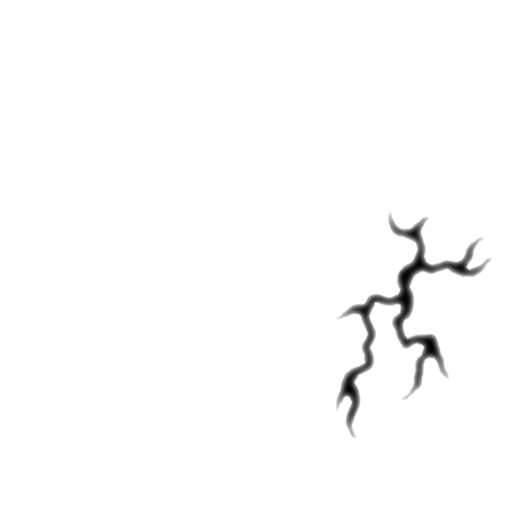
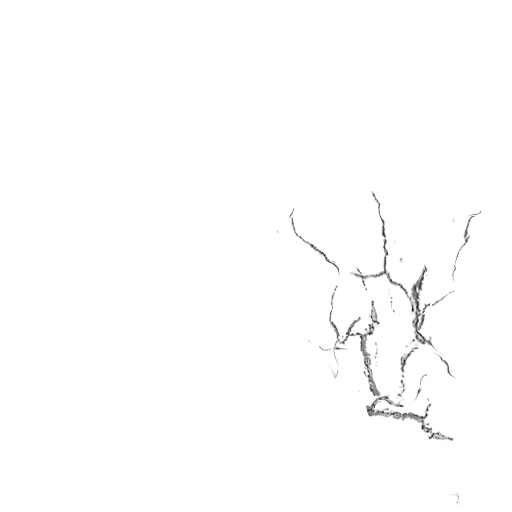
update

diff --git a/js/threedee.js b/js/threedee.js
@@ -1,3 +1,4 @@
+var timer = 0;
 var imagePath = '../images/';
 var imageMax = 100;
 var tdScreenWidth = 800;
@@ -106,7 +107,8 @@ var tdMaterial = {
         shadow: false,
         transparent: true,
         opacity: 0.5,
-        blend: THREE.AdditiveBlending
+        blend: THREE.AdditiveBlending,
+        animate: 'random,10'
     },
     'wall-switch': {
         image: 'wall-switch',
@@ -144,6 +146,7 @@ document.body.appendChild(stats.domElement);
 
 function startEngine() {
     document.getElementById('view').appendChild(renderer.domElement);
+    tdDrawAll();
     animate();
 }
 function animate() {
@@ -152,6 +155,21 @@ function animate() {
     stats.update();
 }
 function render() {
+    for (var ob in tdMaterial) {
+        if(typeof tdMaterial[ob].animate !== 'undefined' && tdMaterial[ob].animate.split(',')[0] === 'random') {
+            var at = parseInt(tdMaterial[ob].animate.split(',')[1]);
+            if(timer % (60 / at) === 0) {
+                var tex = ob;
+                if(typeof tdTexture[tex] !== "undefined") {
+                    for(var i = 0; i < tdTexture[tex].length; i++) {
+                        tdTexture[tex][i].offset.x = Math.random();
+                        tdTexture[tex][i].offset.y = Math.random();
+                    }
+                }
+            }
+        }
+    }
+    timer++;
     $('#debug').html('Camera: X ' + camera.position.x.toFixed(2) + ', Y ' + camera.position.y.toFixed(2) + ', Z ' + camera.position.z.toFixed(2) + ', RX ' + camera.rotation.x.toFixed(2) + ', RY ' + camera.rotation.y.toFixed(2) + ', RZ ' + camera.rotation.z.toFixed(2) + '<br>');
     $('#debug').append('Light: X ' + light.position.x.toFixed(2) + ', Y ' + light.position.y.toFixed(2) + ', Z ' + light.position.z.toFixed(2) + ', RX ' + light.rotation.x.toFixed(2) + ', RY ' + light.rotation.y.toFixed(2) + ', RZ ' + light.rotation.z.toFixed(2));
     TWEEN.update();
@@ -162,25 +180,26 @@ function tdCreateMaterials() {
     var img = null;
     for (var ob in tdMaterial) {
         var i = 0;
+        var tex = ob;
         tdMaterial[ob].material = [];
         if(typeof tdMaterial[ob].image !== "undefined" && tdMaterial[ob].image !== '') {
-            if(typeof tdTexture[ob] === "undefined") {
-                tdTexture[ob] = [];
+            if(typeof tdTexture[tex] === "undefined") {
+                tdTexture[tex] = [];
             }
             while(true) {
-                if(typeof tdTexture[ob][i] === "undefined") {
+                if(typeof tdTexture[tex][i] === "undefined") {
                     img = tdMaterial[ob].image + '-' + i;
                     if(fileExist(imagePath + img + '.jpg')) {
                         aryImageLoader.push({Name: img, Value: false});
-                        tdTexture[ob][i] = new THREE.ImageUtils.loadTexture(imagePath + img + '.jpg', {}, function(img) {checkImageLoading(img)});
+                        tdTexture[tex][i] = new THREE.ImageUtils.loadTexture(imagePath + img + '.jpg', {}, function(img) {checkImageLoading(img)});
                     } else if(fileExist(imagePath + img + '.png')) {
                         aryImageLoader.push({Name: img, Value: false});
-                        tdTexture[ob][i] = new THREE.ImageUtils.loadTexture(imagePath + img + '.png', {}, function(img) {checkImageLoading(img)});
+                        tdTexture[tex][i] = new THREE.ImageUtils.loadTexture(imagePath + img + '.png', {}, function(img) {checkImageLoading(img)});
                     } else {
                         break;
                     }
                     if(typeof tdMaterial[ob].scale !== "undefined") {
-                        tdTexture[ob][i].repeat.set(tdMaterial[ob].scale.x, tdMaterial[ob].scale.y);
+                        tdTexture[tex][i].repeat.set(tdMaterial[ob].scale.x, tdMaterial[ob].scale.y);
                     }
                 }
                 var trans = false;
@@ -208,7 +227,7 @@ function tdCreateMaterials() {
                 }
                 var bump = null;
                 if(norm === null && typeof tdMaterial[ob].bump !== "undefined" && tdMaterial[ob].bump) {
-                    bump = tdTexture[ob][i];
+                    bump = tdTexture[tex][i];
                     if(typeof tdTexture['bump-' + tdMaterial[ob].image] === 'undefined') {
                         tdTexture['bump-' + tdMaterial[ob].image] = [];
                     }
@@ -259,7 +278,7 @@ function tdCreateMaterials() {
                     blend = tdMaterial[ob].blending;
                 }
                 var parameters = {
-                    map: tdTexture[ob][i],
+                    map: tdTexture[tex][i],
                     bumpMap: bump,
                     bumpScale: 0.04,
                     normalMap: norm,
@@ -272,8 +291,8 @@ function tdCreateMaterials() {
                     side: THREE.FrontSide,
                     envMap: refl
                 };
-                tdTexture[ob][i].wrapT = tdTexture[ob][i].wrapS = THREE.RepeatWrapping;
-                tdTexture[ob][i].anisotropy = 16;
+                tdTexture[tex][i].wrapT = tdTexture[tex][i].wrapS = THREE.RepeatWrapping;
+                tdTexture[tex][i].anisotropy = 16;
                 tdMaterial[ob].material[i] = new THREE.MeshPhongMaterial(parameters);
                 i++;
             }
@@ -498,20 +517,20 @@ function drawObject(type, msg, f, x, y, x1, y1, z1, x2, y2, z2, d, metatype, mat
             ms1 = drawObject(type, ms, f, x, y, x1, y1, z1, x2, y2, z2, 0, 'box4', mat, rnd, 129.22);
             if(rand(Math.floor(f / Math.ceil(rnd / 10)), Math.floor(x / rnd), Math.floor(y / rnd), 391.87, 4) === 0) {
                 //ms1 = drawObject('wall-rim-1', ms, f, x, y, x1, y1, z1, x2, y2, z2, 0, 'wall-rim-1', mat, rnd, 129.22);
-                ms1 = drawObject(type, ms, f, x, y, x1 - 0.05, y1 - 0.05, z1, 0.11, 0.11, z2, 0, 'cylinder', 'wall-wood-x05', rnd, 444.01);
-                ms1 = drawObject(type, ms, f, x, y, x1 - 0.05, y1 + 0.95, z1, 0.1, 0.1, z2, 0, 'cylinder', 'wall-wood-x05', rnd, 444.01);
-                ms1 = drawObject(type, ms, f, x, y, x1 + 0.95, y1 - 0.05, z1, 0.09, 0.09, z2, 0, 'cylinder', 'wall-wood-x05', rnd, 444.01);
-                ms1 = drawObject(type, ms, f, x, y, x1 + 0.95, y1 + 0.95, z1, 0.08, 0.08, z2, 0, 'cylinder', 'wall-wood-x05', rnd, 444.01);
+                ms1 = drawObject(type, ms, f, x, y, x1 - 0.05, y1 - 0.05, z1, 0.101, 0.101, z2, 0, 'cylinder', 'wall-wood-x05', rnd, 444.01);
+                ms1 = drawObject(type, ms, f, x, y, x1 - 0.05, y1 + 0.95, z1, 0.100, 0.100, z2, 0, 'cylinder', 'wall-wood-x05', rnd, 444.01);
+                ms1 = drawObject(type, ms, f, x, y, x1 + 0.95, y1 - 0.05, z1, 0.099, 0.099, z2, 0, 'cylinder', 'wall-wood-x05', rnd, 444.01);
+                ms1 = drawObject(type, ms, f, x, y, x1 + 0.95, y1 + 0.95, z1, 0.098, 0.098, z2, 0, 'cylinder', 'wall-wood-x05', rnd, 444.01);
             } else if(rand(Math.floor(f / Math.ceil(rnd / 10)), Math.floor(x / rnd), Math.floor(y / rnd), 391.87, 4) === 1) {
                 //ms1 = drawObject('wall-rim-2', ms, f, x, y, x1, y1, z1, x2, y2, z2, 0, 'wall-rim-2', mat, rnd, 129.22);
-                ms1 = drawObject(type, ms, f, x, y, x1 + 0.45, y1 - 0.05, z1 + 0.25, 0.11, 0.11, z2 * 1.5, 0, 'cylinder-rz', 'wall-wood-x05', rnd, 444.01);
+                ms1 = drawObject(type, ms, f, x, y, x1 + 0.45, y1 - 0.05, z1 + 0.25, 0.1, 0.1, z2 * 1.5, 0, 'cylinder-rz', 'wall-wood-x05', rnd, 444.01);
                 ms1 = drawObject(type, ms, f, x, y, x1 + 0.95, y1 + 0.45, z1 + 0.25, 0.1, 0.1, z2 * 1.5, 0, 'cylinder-rx', 'wall-wood-x05', rnd, 444.01);
-                ms1 = drawObject(type, ms, f, x, y, x1 + 0.45, y1 + 0.95, z1 + 0.25, 0.09, 0.09, z2 * 1.5, 0, 'cylinder-rz', 'wall-wood-x05', rnd, 444.01);
-                ms1 = drawObject(type, ms, f, x, y, x1 - 0.05, y1 + 0.45, z1 + 0.25, 0.08, 0.08, z2 * 1.5, 0, 'cylinder-rx', 'wall-wood-x05', rnd, 444.01);
-                ms1 = drawObject(type, ms, f, x, y, x1 + 0.45, y1 - 0.05, z1 - 0.75, 0.08, 0.08, z2 * 1.5, 0, 'cylinder-rz', 'wall-wood-x05', rnd, 444.01);
-                ms1 = drawObject(type, ms, f, x, y, x1 + 0.95, y1 + 0.45, z1 - 0.75, 0.09, 0.09, z2 * 1.5, 0, 'cylinder-rx', 'wall-wood-x05', rnd, 444.01);
-                ms1 = drawObject(type, ms, f, x, y, x1 + 0.45, y1 + 0.95, z1 - 0.75, 0.1, 0.1, z2 * 1.5, 0, 'cylinder-rz', 'wall-wood-x05', rnd, 444.01);
-                ms1 = drawObject(type, ms, f, x, y, x1 - 0.05, y1 + 0.45, z1 - 0.75, 0.11, 0.11, z2 * 1.5, 0, 'cylinder-rx', 'wall-wood-x05', rnd, 444.01);
+                ms1 = drawObject(type, ms, f, x, y, x1 + 0.45, y1 + 0.95, z1 + 0.25, 0.1, 0.1, z2 * 1.5, 0, 'cylinder-rz', 'wall-wood-x05', rnd, 444.01);
+                ms1 = drawObject(type, ms, f, x, y, x1 - 0.05, y1 + 0.45, z1 + 0.25, 0.1, 0.1, z2 * 1.5, 0, 'cylinder-rx', 'wall-wood-x05', rnd, 444.01);
+                ms1 = drawObject(type, ms, f, x, y, x1 + 0.45, y1 - 0.05, z1 - 0.75, 0.099, 0.099, z2 * 1.5, 0, 'cylinder-rz', 'wall-wood-x05', rnd, 444.01);
+                ms1 = drawObject(type, ms, f, x, y, x1 + 0.95, y1 + 0.45, z1 - 0.75, 0.099, 0.099, z2 * 1.5, 0, 'cylinder-rx', 'wall-wood-x05', rnd, 444.01);
+                ms1 = drawObject(type, ms, f, x, y, x1 + 0.45, y1 + 0.95, z1 - 0.75, 0.099, 0.099, z2 * 1.5, 0, 'cylinder-rz', 'wall-wood-x05', rnd, 444.01);
+                ms1 = drawObject(type, ms, f, x, y, x1 - 0.05, y1 + 0.45, z1 - 0.75, 0.099, 0.099, z2 * 1.5, 0, 'cylinder-rx', 'wall-wood-x05', rnd, 444.01);
             }
             msg.add(ms);
             break;

diff --git a/js/dungeon.js b/js/dungeon.js
@@ -19,7 +19,6 @@ $(function() {
 	ctx.canvas.height = viewSize * squareSize;
 	initField();
 	drawAll();
-	tdDrawAll();
 
 	$(document).keydown(function(e) {
 		if(!keysFrozen) {
@@ -308,15 +307,6 @@ function generateFloor(x, y) {
 			setSquare(x, y - 1, 'floor');
 		}
 		setSquare(x, y, 'floor');
-		if(rand(origin.f, x, y, 833.23, 100) === 0) {
-			setSquare(x, y, 'floor,wall-secret', 'wall');
-		}
-		if(rand(origin.f, x, y - 1, 923.01, 100) === 0) {
-			setSquare(x, y - 1, 'floor,wall-secret', 'wall');
-		}
-		if(rand(origin.f, x - 1, y, 13.40, 100) === 0) {
-			setSquare(x - 1, y, 'floor,wall-secret', 'wall');
-		}
 		if(rand(origin.f, x, y, 94.09, 12) === 0) {
 			generateRoom(x, y, rand(origin.f, x, y, 859.35, 3) * 2 + 1, rand(origin.f, x, y, 123.76, 3) * 2 + 1);
 		}
@@ -494,6 +484,9 @@ function generateStairs(x, y) {
 					break;
 					case 1:
 					setSquare(x, y, 'floor,teleport', '', '0' + d1);					
+					break;
+					case 2:
+					setSquare(x + dir[d1].x, y + dir[d1].y, 'floor,wall-secret', 'wall');
 					break;
 					default:
 					setSquare(x + dir[d1].x, y + dir[d1].y, 'floor');					
